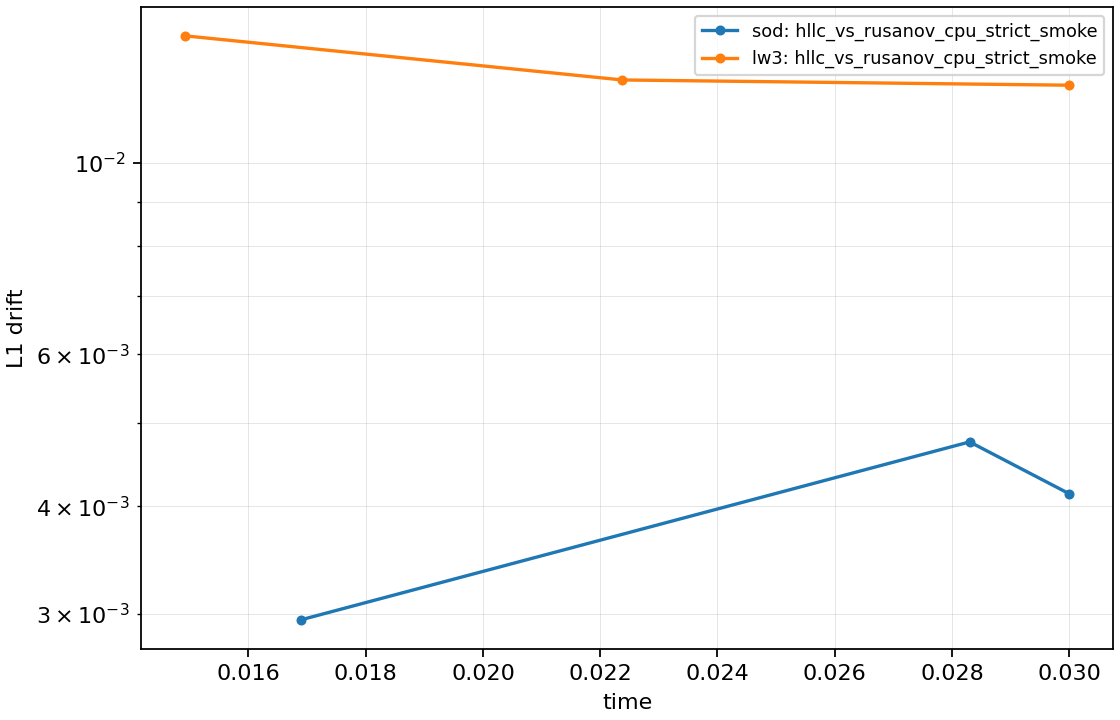
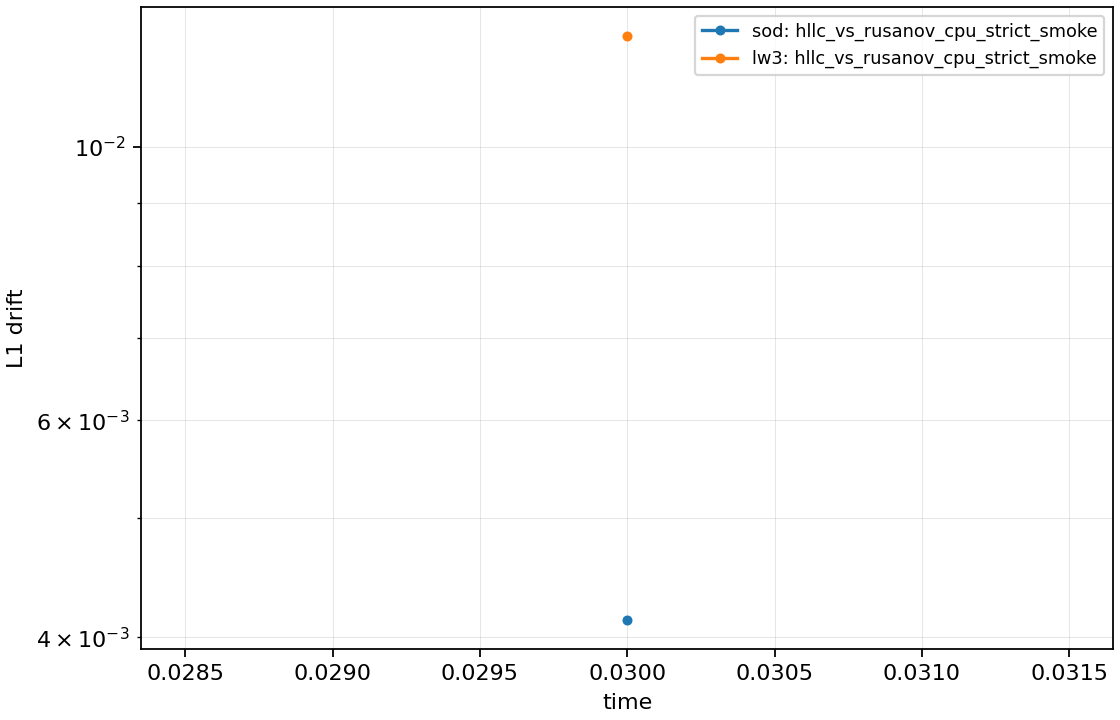
Fix drift header compatibility checks

diff --git a/scripts/metrics/drift_timeseries.py b/scripts/metrics/drift_timeseries.py
@@ -99,11 +99,27 @@ def _selected_variable_array(cons: np.ndarray, variable: str | int, gamma: float
     return name, cons[..., idx]
 
 
+def _compatible(a: float, b: float, tolerance: float) -> bool:
+    return abs(a - b) <= tolerance * max(1.0, abs(a), abs(b))
+
+
+def _raise_header_mismatch(
+    field: str,
+    path_a: str | Path,
+    value_a: Any,
+    path_b: str | Path,
+    value_b: Any,
+) -> None:
+    raise ValueError(f"{field} mismatch: {path_a} has {value_a}, {path_b} has {value_b}")
+
+
 def compute_l1_linf_pair(
     path_a: str | Path,
     path_b: str | Path,
     variable: str | int = "rho",
     gamma: float = 1.4,
+    time_tolerance: float = 1e-12,
+    spatial_tolerance: float = 1e-12,
 ) -> dict[str, Any]:
     """Compute mean absolute and max absolute drift for one HRSC binary pair."""
     header_a, data_a = read_binary(path_a)
@@ -111,7 +127,13 @@ def compute_l1_linf_pair(
     shape_a = (header_a.nx, header_a.ny, header_a.nvars)
     shape_b = (header_b.nx, header_b.ny, header_b.nvars)
     if shape_a != shape_b:
-        raise ValueError(f"grid shape mismatch: {shape_a} vs {shape_b}")
+        _raise_header_mismatch("grid shape", path_a, shape_a, path_b, shape_b)
+    if not _compatible(header_a.dx, header_b.dx, spatial_tolerance):
+        _raise_header_mismatch("dx", path_a, header_a.dx, path_b, header_b.dx)
+    if not _compatible(header_a.dy, header_b.dy, spatial_tolerance):
+        _raise_header_mismatch("dy", path_a, header_a.dy, path_b, header_b.dy)
+    if not _compatible(header_a.t, header_b.t, time_tolerance):
+        _raise_header_mismatch("time", path_a, header_a.t, path_b, header_b.t)
 
     name_a, arr_a = _selected_variable_array(data_a.astype(np.float64), variable, gamma)
     name_b, arr_b = _selected_variable_array(data_b.astype(np.float64), variable, gamma)
@@ -128,7 +150,7 @@ def compute_l1_linf_pair(
     return {
         "path_a": str(path_a),
         "path_b": str(path_b),
-        "time": float(max(header_a.t, header_b.t)),
+        "time": float(0.5 * (header_a.t + header_b.t)),
         "time_a": float(header_a.t),
         "time_b": float(header_b.t),
         "variable": name_a,
@@ -154,7 +176,12 @@ def _pair_entries(spec: dict[str, Any]) -> list[dict[str, Any]]:
     return [dict(entry) for entry in entries]
 
 
-def analyse_pair(entry: dict[str, Any], fit_window: Sequence[float] | None = None) -> dict[str, Any]:
+def analyse_pair(
+    entry: dict[str, Any],
+    fit_window: Sequence[float] | None = None,
+    time_tolerance: float = 1e-12,
+    spatial_tolerance: float = 1e-12,
+) -> dict[str, Any]:
     variable = entry.get("variable", "rho")
     paths_a = _coerce_paths(entry.get("a", []))
     paths_b = _coerce_paths(entry.get("b", []))
@@ -164,7 +191,14 @@ def analyse_pair(entry: dict[str, Any], fit_window: Sequence[float] | None = Non
         raise ValueError(f"pair {entry.get('pair', '<unnamed>')} contains no binary paths")
 
     rows = [
-        compute_l1_linf_pair(path_a, path_b, variable=variable, gamma=float(entry.get("gamma", 1.4)))
+        compute_l1_linf_pair(
+            path_a,
+            path_b,
+            variable=variable,
+            gamma=float(entry.get("gamma", 1.4)),
+            time_tolerance=float(entry.get("time_tolerance", time_tolerance)),
+            spatial_tolerance=float(entry.get("spatial_tolerance", spatial_tolerance)),
+        )
         for path_a, path_b in zip(paths_a, paths_b)
     ]
     rows.sort(key=lambda row: row["time"])
@@ -229,7 +263,7 @@ def _write_outputs(records: list[dict[str, Any]], output_prefix: Path) -> None:
         final_l1 = record["l1"][-1] if n else math.nan
         final_linf = record["linf"][-1] if n else math.nan
         lambda_l1 = record["lambda_l1"]
-        lambda_text = "" if lambda_l1 is None else f"{lambda_l1:.6g}"
+        lambda_text = "n/a" if lambda_l1 is None else f"{lambda_l1:.6g}"
         notes = "; ".join(str(note) for note in record["notes"])
         lines.append(
             f"| {record['case']} | {record['pair']} | {record['variable']} | {n} | "
@@ -253,6 +287,12 @@ def _parse_args(argv: Sequence[str] | None = None) -> argparse.Namespace:
     parser.add_argument("--matrix", type=Path, help="run_matrix JSON containing drift_pairs")
     parser.add_argument("--output", type=Path, required=True, help="Output prefix for summary.{json,csv,md}")
     parser.add_argument("--fit-window", type=_parse_fit_window, default=None, help="Fit window as t_min,t_max")
+    parser.add_argument(
+        "--time-tolerance",
+        type=float,
+        default=1e-12,
+        help="Relative/absolute tolerance for paired binary header times",
+    )
     parser.add_argument("--case", default="", help="Case label for explicit --a/--b mode")
     parser.add_argument("--pair", default="explicit_pair", help="Pair label for explicit --a/--b mode")
     parser.add_argument("--variable", default="rho", help="Variable name or conserved index")
@@ -278,7 +318,10 @@ def main(argv: Sequence[str] | None = None) -> None:
     else:
         raise SystemExit("Provide --pairs or both --a and --b")
 
-    records = [analyse_pair(entry, fit_window=args.fit_window) for entry in entries]
+    records = [
+        analyse_pair(entry, fit_window=args.fit_window, time_tolerance=args.time_tolerance)
+        for entry in entries
+    ]
     _write_outputs(records, args.output)
 
 

diff --git a/tests/py/test_drift_timeseries.py b/tests/py/test_drift_timeseries.py
@@ -8,7 +8,14 @@ import numpy as np
 import pytest
 
 
-def _write_binary(path: Path, cons: np.ndarray, *, t: float = 0.0) -> None:
+def _write_binary(
+    path: Path,
+    cons: np.ndarray,
+    *,
+    t: float = 0.0,
+    dx: float | None = None,
+    dy: float | None = None,
+) -> None:
     cons = np.asarray(cons)
     ny, nx, nvars = cons.shape
     if cons.dtype == np.float32:
@@ -21,7 +28,14 @@ def _write_binary(path: Path, cons: np.ndarray, *, t: float = 0.0) -> None:
     header = bytearray(64)
     header[:4] = b"HRSC"
     struct.pack_into("<iiii", header, 4, nx, ny, nvars, precision_tag)
-    struct.pack_into("<ddd", header, 20, t, 1.0 / nx, 1.0 / max(ny, 1))
+    struct.pack_into(
+        "<ddd",
+        header,
+        20,
+        t,
+        1.0 / nx if dx is None else dx,
+        1.0 / max(ny, 1) if dy is None else dy,
+    )
     path.write_bytes(bytes(header) + payload)
 
 
@@ -97,3 +111,57 @@ def test_compute_l1_linf_pair_supports_variable_index(tmp_path: Path) -> None:
 
     assert metric["l1"] == pytest.approx(0.3)
     assert metric["linf"] == pytest.approx(0.4)
+
+
+def test_compute_l1_linf_pair_rejects_mismatched_header_times(tmp_path: Path) -> None:
+    from scripts.metrics.drift_timeseries import compute_l1_linf_pair
+
+    cons = np.ones((1, 2, 4), dtype=np.float64)
+    path_a = tmp_path / "a.bin"
+    path_b = tmp_path / "b.bin"
+    _write_binary(path_a, cons, t=0.1)
+    _write_binary(path_b, cons, t=0.1001)
+
+    with pytest.raises(ValueError, match="time mismatch") as excinfo:
+        compute_l1_linf_pair(path_a, path_b)
+
+    message = str(excinfo.value)
+    assert str(path_a) in message
+    assert str(path_b) in message
+    assert "0.1" in message
+    assert "0.1001" in message
+
+
+def test_compute_l1_linf_pair_rejects_mismatched_dx_or_dy(tmp_path: Path) -> None:
+    from scripts.metrics.drift_timeseries import compute_l1_linf_pair
+
+    cons = np.ones((2, 2, 4), dtype=np.float64)
+    path_a = tmp_path / "a.bin"
+    path_b = tmp_path / "b.bin"
+    _write_binary(path_a, cons, t=0.1, dx=0.5, dy=0.25)
+    _write_binary(path_b, cons, t=0.1, dx=0.5001, dy=0.25)
+
+    with pytest.raises(ValueError, match="dx mismatch"):
+        compute_l1_linf_pair(path_a, path_b)
+
+    _write_binary(path_b, cons, t=0.1, dx=0.5, dy=0.2501)
+
+    with pytest.raises(ValueError, match="dy mismatch"):
+        compute_l1_linf_pair(path_a, path_b)
+
+
+def test_compute_l1_linf_pair_uses_average_compatible_time(tmp_path: Path) -> None:
+    from scripts.metrics.drift_timeseries import compute_l1_linf_pair
+
+    a = np.ones((1, 2, 4), dtype=np.float64)
+    b = a.copy()
+    b[..., 0] += 0.25
+    path_a = tmp_path / "a.bin"
+    path_b = tmp_path / "b.bin"
+    _write_binary(path_a, a, t=0.1)
+    _write_binary(path_b, b, t=0.1 + 5e-13)
+
+    metric = compute_l1_linf_pair(path_a, path_b, variable="rho")
+
+    assert metric["time"] == pytest.approx((0.1 + (0.1 + 5e-13)) / 2.0)
+    assert metric["l1"] == pytest.approx(0.25)

diff --git a/experiments/week7/drift/summary.md b/experiments/week7/drift/summary.md
@@ -2,5 +2,5 @@
 
 | case | pair | variable | n | final L1 | final Linf | lambda L1 | notes |
 |---|---|---|---:|---:|---:|---:|---|
-| sod | hllc_vs_rusanov_cpu_strict_smoke | rho | 3 | 4.134993e-03 | 5.809514e-02 | 31.4602 | Smoke pair validates CPU output_times and drift aggregation; full branch/fast-math/hardware axes should be expanded with build-matrix and CUDA artefacts. |
-| lw3 | hllc_vs_rusanov_cpu_strict_smoke | rho | 3 | 1.229633e-02 | 1.841195e-01 | -8.7063 | 2D output_times smoke at reduced resolution; intended LW3 axes include CPU/GPU, branch rule, optimisation, fast-math, and extended t_end=1.0 fitting windows. |
+| sod | hllc_vs_rusanov_cpu_strict_smoke | rho | 1 | 4.134993e-03 | 5.809514e-02 | n/a | Final-state smoke only; lambda is n/a until synchronized checkpoints or multiple exact-final-time runs are available.; Full branch/fast-math/hardware axes should be expanded with build-matrix and CUDA artefacts. |
+| lw3 | hllc_vs_rusanov_cpu_strict_smoke | rho | 1 | 1.229633e-02 | 1.841195e-01 | n/a | Final-state smoke only; lambda is n/a until synchronized checkpoints or multiple exact-final-time runs are available.; 2D smoke at reduced resolution; intended LW3 axes include CPU/GPU, branch rule, optimisation, fast-math, and extended t_end=1.0 fitting windows. |
